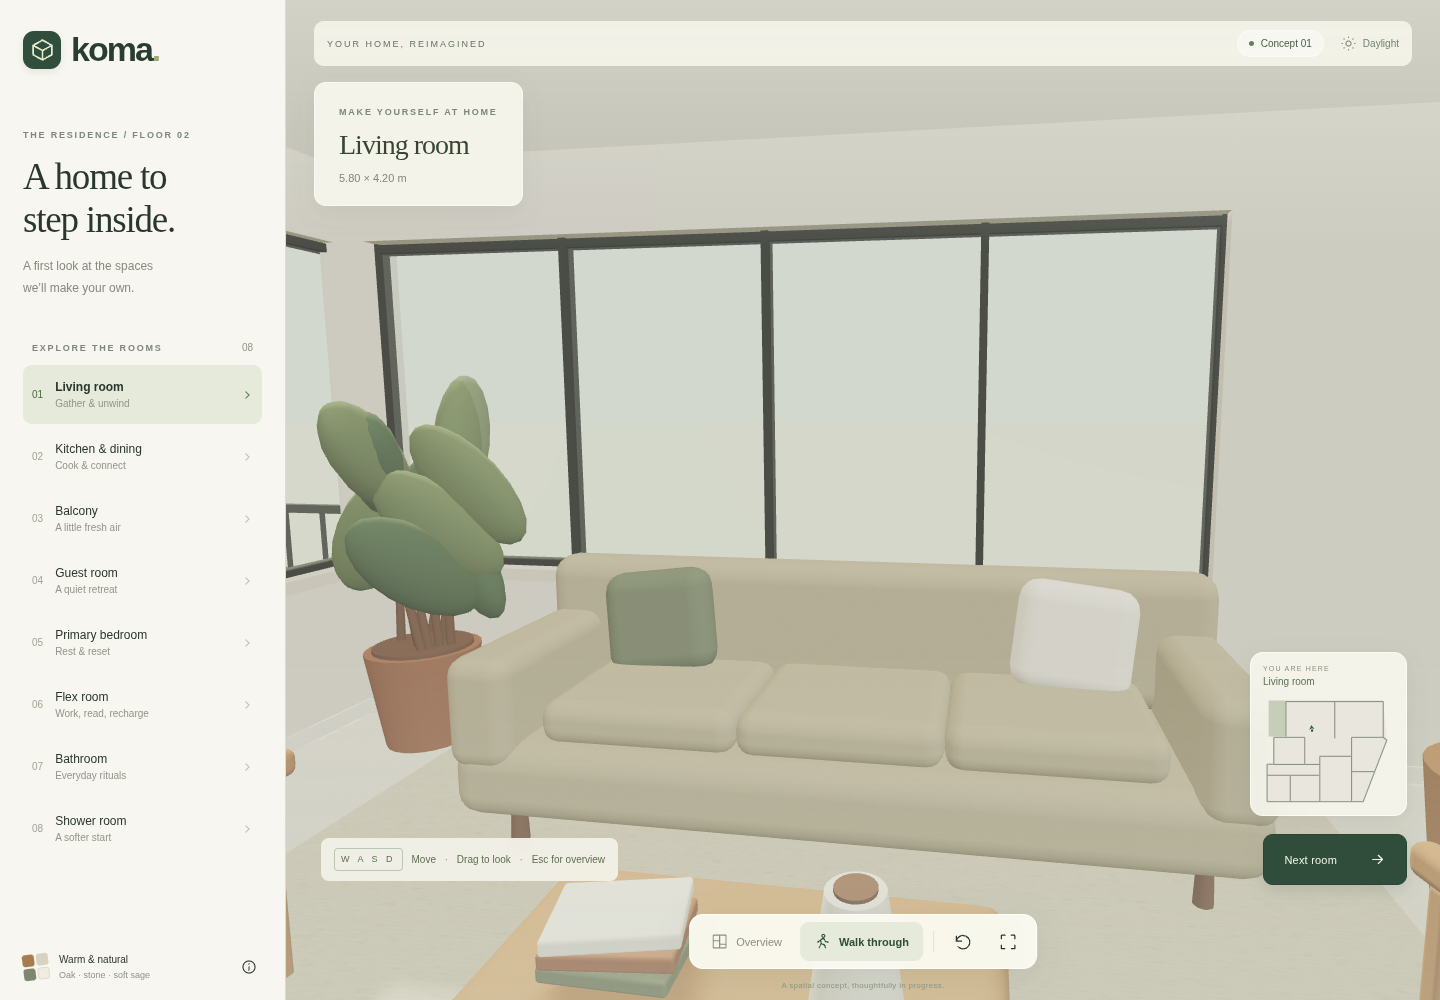
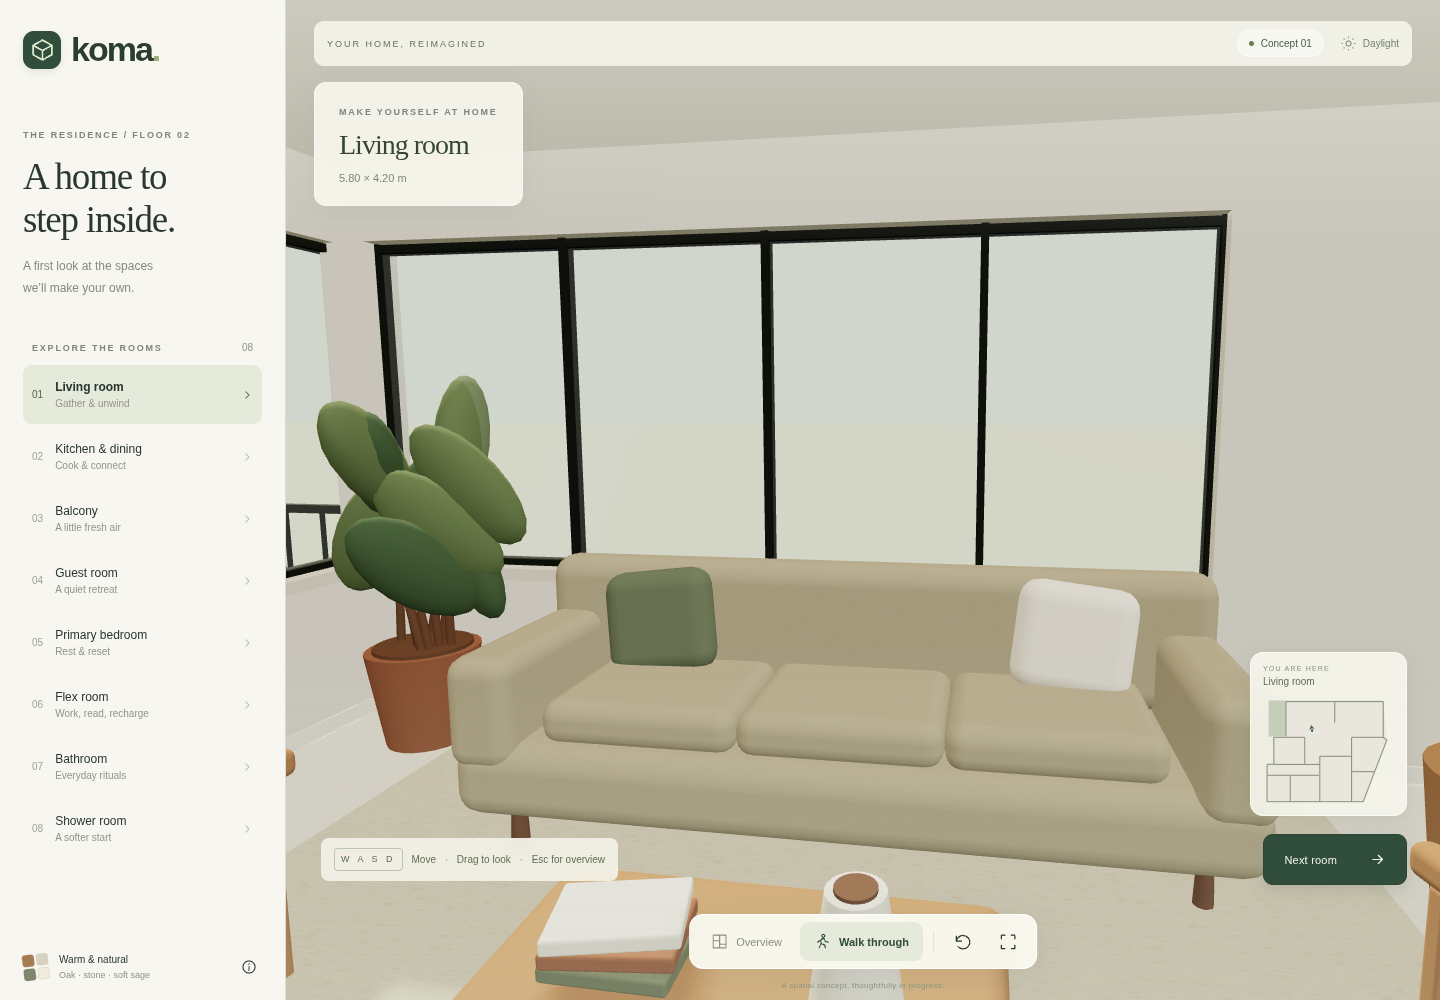
Remove unbuilt kitchen divider extension

diff --git a/src/world.js b/src/world.js
@@ -421,7 +421,8 @@ export function buildWorld(scene) {
   box(coffee, 0.7, 0.32, 0.42, 0, 0.16, 0, oak, 0.06);
   books(coffee, -0.25, 0.46, 0);
   vase(coffee, 0.26, 0.46, 0.05, 0.095);
-  const media = place(711, 564);
+  // Keep the proposed TV and console against the built part of the divider.
+  const media = place(711, 512);
   block(media, 0.28, 1.9);
   box(media, 0.27, 0.36, 1.9, 0, 0.3, 0, oak, 0.02);
   box(media, 0.055, 0.92, 1.62, -0.1, 1.17, 0, metal, 0.02);

diff --git a/src/plan.js b/src/plan.js
@@ -74,7 +74,9 @@ export const walls = [
   w([883, 744], [883, 1337], [door(40, 111), door(332, 397)], 0.16),
   w([883, 744], [1175, 744], [], 0.16),
   w([883, 1060], [1093, 1060], [], 0.12),
-  w([728, 414], [728, 754], [], 0.19),
+  // Owner confirmed the outlined extension was never built. Retain only the
+  // solid section shown on the plan, ending at reference y=608 (~2.65 m long).
+  w([728, 414], [728, 608], [], 0.19),
 ];
 export const rooms = [
   {

diff --git a/README.md b/README.md
@@ -31,6 +31,7 @@ Build with `npm run build`; serve the result with `npm run preview`. All texture
 
 - The ceiling height is assumed to be **2.80 m**, eye height **1.62 m**.
 - Window sill/head heights and some openings are inferred. Verify them on site.
+- The owner confirmed the living/kitchen divider's outlined extension was never built. The model retains the solid section shown on the plan (approximately 2.65 m long); its exact length still needs a site measurement.
 - Furniture, finishes, and use of the guest/flex rooms are proposals, not existing conditions.
 - Stairs are a visual placeholder. Walking stays on the supplied floor.
 - The “area = 16.0” annotation is not used as an area measurement because its context is unclear.
